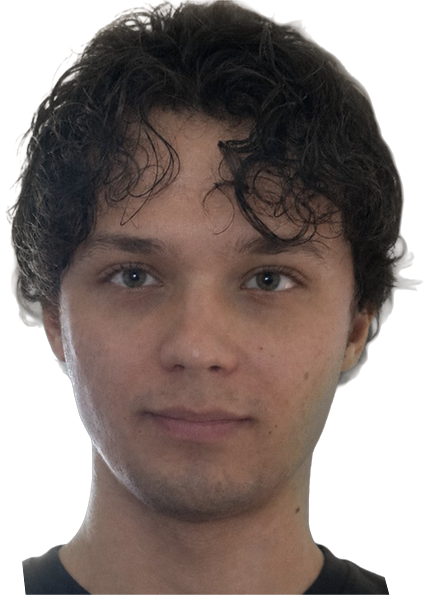
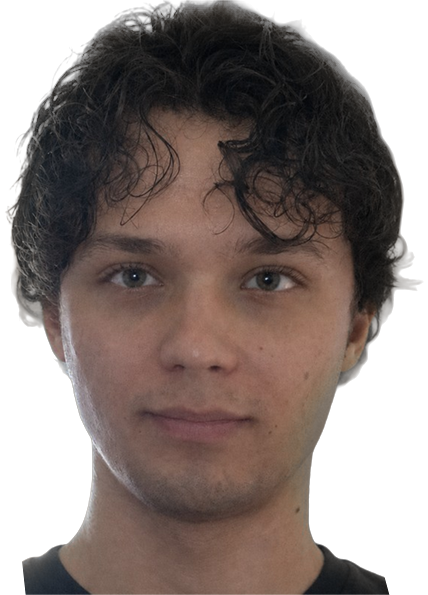
Winks match the portrait's colour; cleaner hair tops; new case-study header layout
- Wink photos desaturated (x0.91 / x0.93) and the left one darkened (x0.93)
  so their colour and brightness measure the same as the base portrait
- Hair tops: the light-grey haze left from the white background is
  recoloured to the hair's own tone (and thinned), on all three photos
- Case studies: the description sits beside the title, sized by script to the
  largest that keeps it the height of the name + subtitle; tags, tools and
  project type sit side by side in one centred row below
- Arctic Zoo: "School Project"

Claude-Session: https://claude.ai/code/session_01B7dt16eQZsCLn4zLnkPZ2Z

Changed region(s): [[0.0607, 0.0, 0.8808, 0.242], [0.8808, 0.2118, 0.9112, 0.242]]

diff --git a/4/index.html b/4/index.html
@@ -1317,7 +1317,20 @@
   
     /* a closed lightbox never catches clicks (the global a, button rule would otherwise leave its buttons live) */
     .lightbox:not(.open), .lightbox:not(.open) * { pointer-events: none !important; }
-  </style>
+      /* ── HERO LAYOUT: title + description side by side (the description is sized to match the
+       title's height, see HERO DESCRIPTION FIT), then tags, tools and project type in one centred row ── */
+    .artwork-title-row { align-items: flex-start; padding-bottom: 1.75rem; gap: 2.5rem; }
+    .artwork-title-row .hero-title-col { flex: 1 1 auto; }
+    .artwork-title-row .hero-desc { flex: 0 0 min(25rem, 44%); margin: 0; max-width: none; line-height: 1.45; text-align: right; }
+    .hero-meta-row { display: flex; flex-wrap: wrap; align-items: center; justify-content: center; gap: 0.9rem 1.75rem; padding: 0 2.5rem 2.5rem; }
+    .hero-meta-row .hero-tags { justify-content: center; }
+    .hero-meta-row .hero-tools, .hero-meta-row .hero-type { margin: 0; }
+    @media (max-width: 768px) {
+      .artwork-title-row { padding-bottom: 1.25rem; gap: 1rem; }
+      .artwork-title-row .hero-desc { flex: none; font-size: 1rem; text-align: left; }
+      .hero-meta-row { padding: 0 1.5rem 2rem; }
+    }
+</style>
 </head>
 <body>
 
@@ -1363,16 +1376,16 @@
       <div class="hero-title-col">
         <h1 class="artwork-main-title">U.C. Berkeley dam research<span class="title-sub">Information design</span></h1>
       </div>
-      <div class="hero-tags-col">
-        <p class="hero-desc">Dense technical datasets turned into figures built for academic publication and a lay audience</p>
-        <div class="hero-tags">
-          <span class="hero-tag">Data Viz</span>
-          <span class="hero-tag">Diagrams</span>
-          <span class="hero-tag">Visual</span>
-        </div>
-        <div class="hero-tools"><strong>Tools used:</strong> Illustrator, InDesign, ArcGIS, Photoshop</div>
-        <div class="hero-type">PhD Research</div>
+      <p class="hero-desc">Dense technical datasets turned into figures built for academic publication and a lay audience</p>
+    </div>
+    <div class="hero-meta-row">
+      <div class="hero-tags">
+        <span class="hero-tag">Data Viz</span>
+        <span class="hero-tag">Diagrams</span>
+        <span class="hero-tag">Visual</span>
       </div>
+      <div class="hero-tools"><strong>Tools used:</strong> Illustrator, InDesign, ArcGIS, Photoshop</div>
+      <div class="hero-type">PhD Research</div>
     </div>
   </div>
 </div>
@@ -2269,5 +2282,27 @@
     });
   </script>
   <script src="/click-fx.js" defer></script>
+  <script>
+    // ── HERO DESCRIPTION FIT: beside the title, the description gets the largest size (up to 26px)
+    // that keeps it no taller than the project name + subtitle ──
+    (function () {
+      var row = document.querySelector(".artwork-title-row"), title = row && row.querySelector(".hero-title-col"), desc = row && row.querySelector(".hero-desc");
+      if (!desc || !title) return;
+      function fit() {
+        desc.style.fontSize = "";
+        if (getComputedStyle(row).flexDirection === "column") return;   // stacked on phones: CSS size
+        var lo = 13, hi = 26;
+        for (var i = 0; i < 12; i++) {
+          var mid = (lo + hi) / 2; desc.style.fontSize = mid + "px";
+          if (desc.offsetHeight > title.offsetHeight + 1) hi = mid; else lo = mid;
+        }
+        desc.style.fontSize = lo.toFixed(2) + "px";
+        while (lo > 13 && desc.offsetHeight > title.offsetHeight + 1) { lo -= 0.25; desc.style.fontSize = lo + "px"; }
+      }
+      fit();
+      if (document.fonts && document.fonts.ready) document.fonts.ready.then(fit);
+      addEventListener("load", fit); addEventListener("resize", fit);
+    })();
+  </script>
 </body>
 </html>

diff --git a/2/index.html b/2/index.html
@@ -1255,7 +1255,20 @@
   
     /* a closed lightbox never catches clicks (the global a, button rule would otherwise leave its buttons live) */
     .lightbox:not(.open), .lightbox:not(.open) * { pointer-events: none !important; }
-  </style>
+      /* ── HERO LAYOUT: title + description side by side (the description is sized to match the
+       title's height, see HERO DESCRIPTION FIT), then tags, tools and project type in one centred row ── */
+    .artwork-title-row { align-items: flex-start; padding-bottom: 1.75rem; gap: 2.5rem; }
+    .artwork-title-row .hero-title-col { flex: 1 1 auto; }
+    .artwork-title-row .hero-desc { flex: 0 0 min(25rem, 44%); margin: 0; max-width: none; line-height: 1.45; text-align: right; }
+    .hero-meta-row { display: flex; flex-wrap: wrap; align-items: center; justify-content: center; gap: 0.9rem 1.75rem; padding: 0 2.5rem 2.5rem; }
+    .hero-meta-row .hero-tags { justify-content: center; }
+    .hero-meta-row .hero-tools, .hero-meta-row .hero-type { margin: 0; }
+    @media (max-width: 768px) {
+      .artwork-title-row { padding-bottom: 1.25rem; gap: 1rem; }
+      .artwork-title-row .hero-desc { flex: none; font-size: 1rem; text-align: left; }
+      .hero-meta-row { padding: 0 1.5rem 2rem; }
+    }
+</style>
 </head>
 <body>
 
@@ -1301,16 +1314,16 @@
       <div class="hero-title-col">
         <h1 class="artwork-main-title">Arctic Zoo &amp; Aquarium<span class="title-sub">Mobile app design</span></h1>
       </div>
-      <div class="hero-tags-col">
-        <p class="hero-desc">Created and designed a fully functional mockup mobile app for a fictional zoo focusing on arctic animals</p>
-        <div class="hero-tags">
-          <span class="hero-tag">UI/UX</span>
-          <span class="hero-tag">Web Design</span>
-          <span class="hero-tag">Wayfinding</span>
-        </div>
-        <div class="hero-tools"><strong>Tools used:</strong> Figma, Illustrator</div>
-        <div class="hero-type">App Project</div>
+      <p class="hero-desc">Created and designed a fully functional mockup mobile app for a fictional zoo focusing on arctic animals</p>
+    </div>
+    <div class="hero-meta-row">
+      <div class="hero-tags">
+        <span class="hero-tag">UI/UX</span>
+        <span class="hero-tag">Web Design</span>
+        <span class="hero-tag">Wayfinding</span>
       </div>
+      <div class="hero-tools"><strong>Tools used:</strong> Figma, Illustrator</div>
+      <div class="hero-type">School Project</div>
     </div>
   </div>
 </div>
@@ -2056,5 +2069,27 @@
     });
   </script>
   <script src="/click-fx.js" defer></script>
+  <script>
+    // ── HERO DESCRIPTION FIT: beside the title, the description gets the largest size (up to 26px)
+    // that keeps it no taller than the project name + subtitle ──
+    (function () {
+      var row = document.querySelector(".artwork-title-row"), title = row && row.querySelector(".hero-title-col"), desc = row && row.querySelector(".hero-desc");
+      if (!desc || !title) return;
+      function fit() {
+        desc.style.fontSize = "";
+        if (getComputedStyle(row).flexDirection === "column") return;   // stacked on phones: CSS size
+        var lo = 13, hi = 26;
+        for (var i = 0; i < 12; i++) {
+          var mid = (lo + hi) / 2; desc.style.fontSize = mid + "px";
+          if (desc.offsetHeight > title.offsetHeight + 1) hi = mid; else lo = mid;
+        }
+        desc.style.fontSize = lo.toFixed(2) + "px";
+        while (lo > 13 && desc.offsetHeight > title.offsetHeight + 1) { lo -= 0.25; desc.style.fontSize = lo + "px"; }
+      }
+      fit();
+      if (document.fonts && document.fonts.ready) document.fonts.ready.then(fit);
+      addEventListener("load", fit); addEventListener("resize", fit);
+    })();
+  </script>
 </body>
 </html>

diff --git a/1/index.html b/1/index.html
@@ -1215,7 +1215,20 @@
   
     /* a closed lightbox never catches clicks (the global a, button rule would otherwise leave its buttons live) */
     .lightbox:not(.open), .lightbox:not(.open) * { pointer-events: none !important; }
-  </style>
+      /* ── HERO LAYOUT: title + description side by side (the description is sized to match the
+       title's height, see HERO DESCRIPTION FIT), then tags, tools and project type in one centred row ── */
+    .artwork-title-row { align-items: flex-start; padding-bottom: 1.75rem; gap: 2.5rem; }
+    .artwork-title-row .hero-title-col { flex: 1 1 auto; }
+    .artwork-title-row .hero-desc { flex: 0 0 min(25rem, 44%); margin: 0; max-width: none; line-height: 1.45; text-align: right; }
+    .hero-meta-row { display: flex; flex-wrap: wrap; align-items: center; justify-content: center; gap: 0.9rem 1.75rem; padding: 0 2.5rem 2.5rem; }
+    .hero-meta-row .hero-tags { justify-content: center; }
+    .hero-meta-row .hero-tools, .hero-meta-row .hero-type { margin: 0; }
+    @media (max-width: 768px) {
+      .artwork-title-row { padding-bottom: 1.25rem; gap: 1rem; }
+      .artwork-title-row .hero-desc { flex: none; font-size: 1rem; text-align: left; }
+      .hero-meta-row { padding: 0 1.5rem 2rem; }
+    }
+</style>
 </head>
 <body>
 
@@ -1261,16 +1274,16 @@
       <div class="hero-title-col">
         <h1 class="artwork-main-title">PyxMagic<span class="title-sub">Design systems &amp; brand&nbsp;identity</span></h1>
       </div>
-      <div class="hero-tags-col">
-        <p class="hero-desc">A cohesive UI and brand language spanning app, web, and apparel for an AI photography product</p>
-        <div class="hero-tags">
-          <span class="hero-tag">UI/UX</span>
-          <span class="hero-tag">Systems</span>
-          <span class="hero-tag">Branding</span>
-        </div>
-        <div class="hero-tools"><strong>Tools used:</strong> Illustrator, Figma, Photoshop</div>
-        <div class="hero-type">Paid Work</div>
+      <p class="hero-desc">A cohesive UI and brand language spanning app, web, and apparel for an AI photography product</p>
+    </div>
+    <div class="hero-meta-row">
+      <div class="hero-tags">
+        <span class="hero-tag">UI/UX</span>
+        <span class="hero-tag">Systems</span>
+        <span class="hero-tag">Branding</span>
       </div>
+      <div class="hero-tools"><strong>Tools used:</strong> Illustrator, Figma, Photoshop</div>
+      <div class="hero-type">Paid Work</div>
     </div>
   </div>
 </div>
@@ -2087,5 +2100,27 @@
     });
   </script>
   <script src="/click-fx.js" defer></script>
+  <script>
+    // ── HERO DESCRIPTION FIT: beside the title, the description gets the largest size (up to 26px)
+    // that keeps it no taller than the project name + subtitle ──
+    (function () {
+      var row = document.querySelector(".artwork-title-row"), title = row && row.querySelector(".hero-title-col"), desc = row && row.querySelector(".hero-desc");
+      if (!desc || !title) return;
+      function fit() {
+        desc.style.fontSize = "";
+        if (getComputedStyle(row).flexDirection === "column") return;   // stacked on phones: CSS size
+        var lo = 13, hi = 26;
+        for (var i = 0; i < 12; i++) {
+          var mid = (lo + hi) / 2; desc.style.fontSize = mid + "px";
+          if (desc.offsetHeight > title.offsetHeight + 1) hi = mid; else lo = mid;
+        }
+        desc.style.fontSize = lo.toFixed(2) + "px";
+        while (lo > 13 && desc.offsetHeight > title.offsetHeight + 1) { lo -= 0.25; desc.style.fontSize = lo + "px"; }
+      }
+      fit();
+      if (document.fonts && document.fonts.ready) document.fonts.ready.then(fit);
+      addEventListener("load", fit); addEventListener("resize", fit);
+    })();
+  </script>
 </body>
 </html>

diff --git a/3/index.html b/3/index.html
@@ -1251,7 +1251,20 @@
   
     /* a closed lightbox never catches clicks (the global a, button rule would otherwise leave its buttons live) */
     .lightbox:not(.open), .lightbox:not(.open) * { pointer-events: none !important; }
-  </style>
+      /* ── HERO LAYOUT: title + description side by side (the description is sized to match the
+       title's height, see HERO DESCRIPTION FIT), then tags, tools and project type in one centred row ── */
+    .artwork-title-row { align-items: flex-start; padding-bottom: 1.75rem; gap: 2.5rem; }
+    .artwork-title-row .hero-title-col { flex: 1 1 auto; }
+    .artwork-title-row .hero-desc { flex: 0 0 min(25rem, 44%); margin: 0; max-width: none; line-height: 1.45; text-align: right; }
+    .hero-meta-row { display: flex; flex-wrap: wrap; align-items: center; justify-content: center; gap: 0.9rem 1.75rem; padding: 0 2.5rem 2.5rem; }
+    .hero-meta-row .hero-tags { justify-content: center; }
+    .hero-meta-row .hero-tools, .hero-meta-row .hero-type { margin: 0; }
+    @media (max-width: 768px) {
+      .artwork-title-row { padding-bottom: 1.25rem; gap: 1rem; }
+      .artwork-title-row .hero-desc { flex: none; font-size: 1rem; text-align: left; }
+      .hero-meta-row { padding: 0 1.5rem 2rem; }
+    }
+</style>
 </head>
 <body>
 
@@ -1297,16 +1310,16 @@
       <div class="hero-title-col">
         <h1 class="artwork-main-title">Apple Watch face<span class="title-sub">Glanceable UI design</span></h1>
       </div>
-      <div class="hero-tags-col">
-        <p class="hero-desc">A wearable interface system built for information that has to register in under a second</p>
-        <div class="hero-tags">
-          <span class="hero-tag">UI/UX</span>
-          <span class="hero-tag">Motion</span>
-          <span class="hero-tag">Typography</span>
-        </div>
-        <div class="hero-tools"><strong>Tools used:</strong> After Effects, Illustrator</div>
-        <div class="hero-type">Personal Project</div>
+      <p class="hero-desc">A wearable interface system built for information that has to register in under a second</p>
+    </div>
+    <div class="hero-meta-row">
+      <div class="hero-tags">
+        <span class="hero-tag">UI/UX</span>
+        <span class="hero-tag">Motion</span>
+        <span class="hero-tag">Typography</span>
       </div>
+      <div class="hero-tools"><strong>Tools used:</strong> After Effects, Illustrator</div>
+      <div class="hero-type">Personal Project</div>
     </div>
   </div>
 </div>
@@ -2084,5 +2097,27 @@
     });
   </script>
   <script src="/click-fx.js" defer></script>
+  <script>
+    // ── HERO DESCRIPTION FIT: beside the title, the description gets the largest size (up to 26px)
+    // that keeps it no taller than the project name + subtitle ──
+    (function () {
+      var row = document.querySelector(".artwork-title-row"), title = row && row.querySelector(".hero-title-col"), desc = row && row.querySelector(".hero-desc");
+      if (!desc || !title) return;
+      function fit() {
+        desc.style.fontSize = "";
+        if (getComputedStyle(row).flexDirection === "column") return;   // stacked on phones: CSS size
+        var lo = 13, hi = 26;
+        for (var i = 0; i < 12; i++) {
+          var mid = (lo + hi) / 2; desc.style.fontSize = mid + "px";
+          if (desc.offsetHeight > title.offsetHeight + 1) hi = mid; else lo = mid;
+        }
+        desc.style.fontSize = lo.toFixed(2) + "px";
+        while (lo > 13 && desc.offsetHeight > title.offsetHeight + 1) { lo -= 0.25; desc.style.fontSize = lo + "px"; }
+      }
+      fit();
+      if (document.fonts && document.fonts.ready) document.fonts.ready.then(fit);
+      addEventListener("load", fit); addEventListener("resize", fit);
+    })();
+  </script>
 </body>
 </html>
